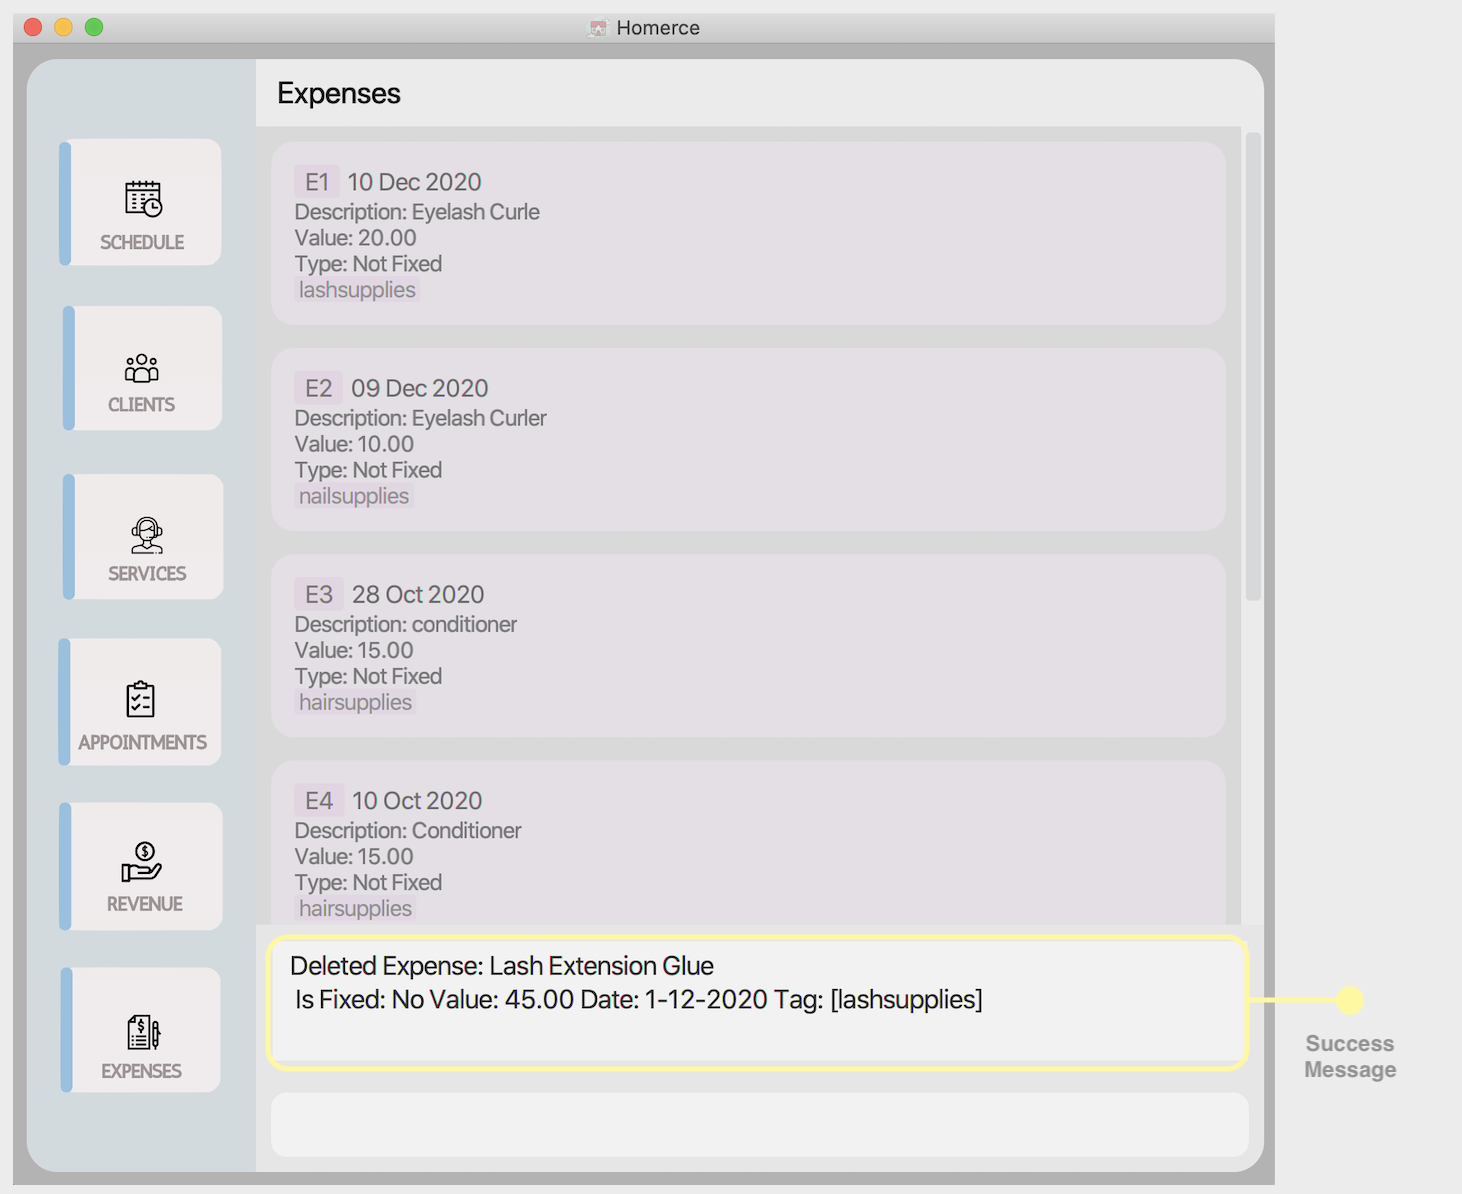
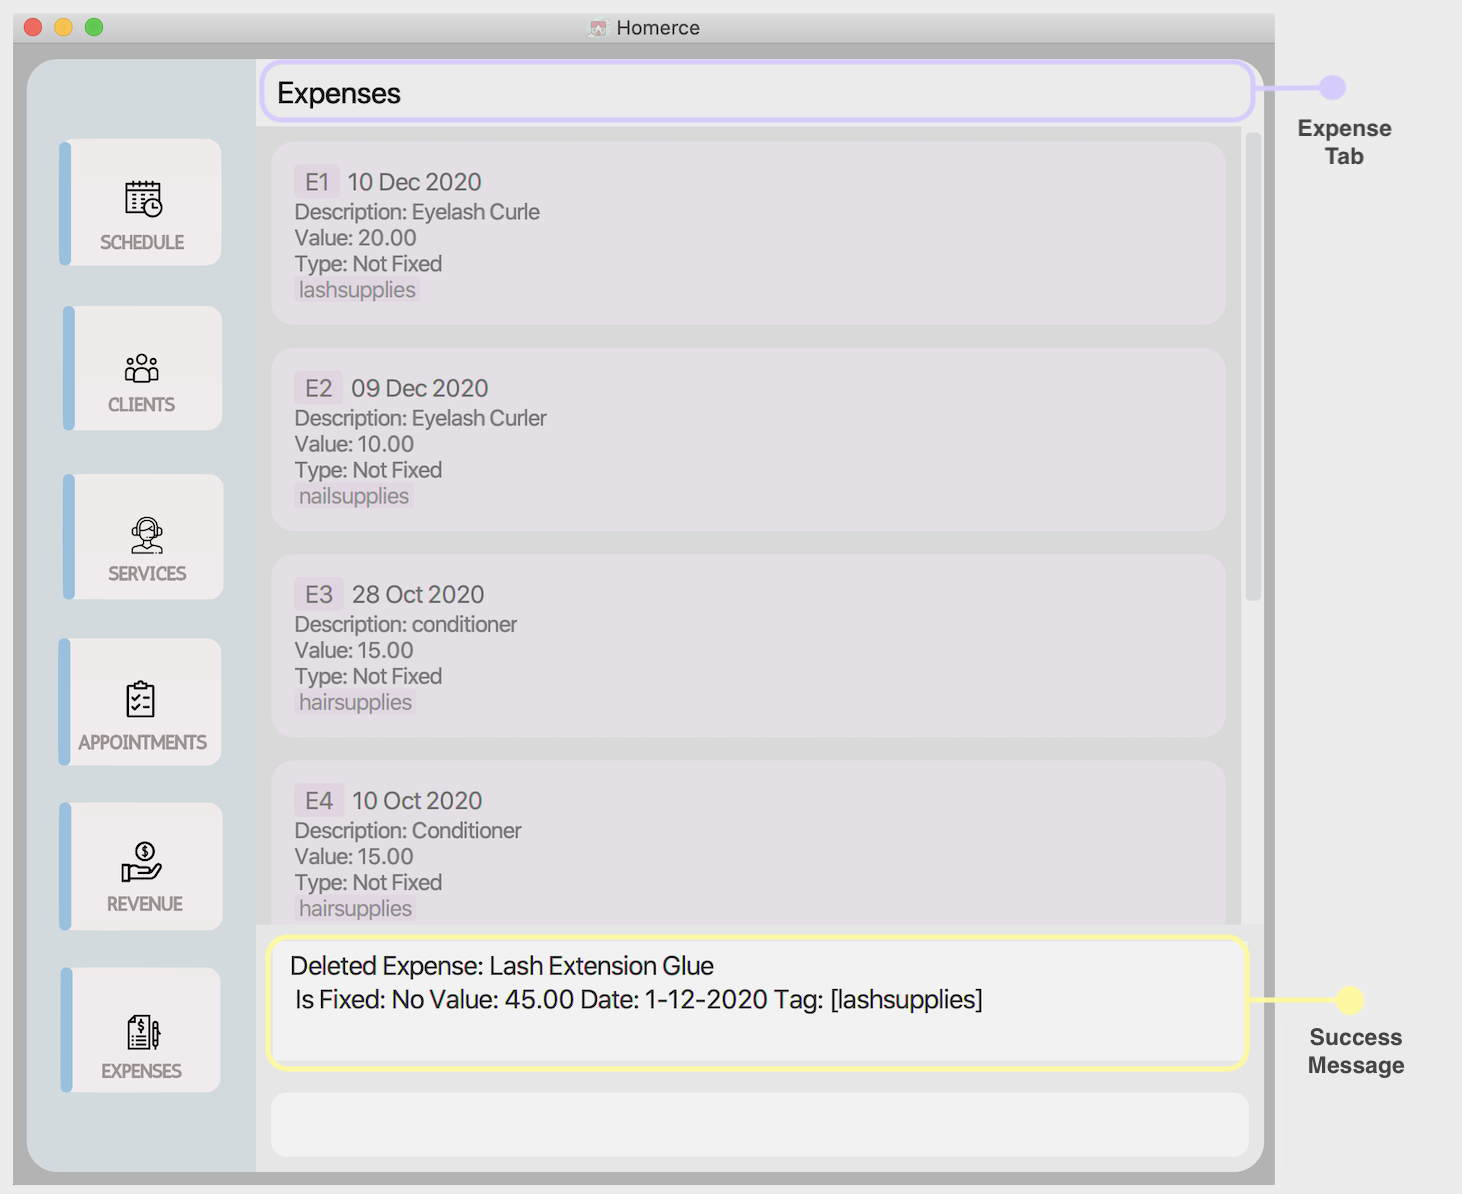
Include Annotation in Screenshot

diff --git a/docs/UserGuide.md b/docs/UserGuide.md
@@ -726,7 +726,7 @@ Steps :
 Outcome : 
 1. The *Result Display* will show a success message.
 1. Homerce will clear all the revenue data.
-1. You will no revenues listed in the tracker.
+1. You will have no revenues listed in the tracker.
 
 ![addexp](images/revenue/ClearRevenue.png) <br>
 *Figure x - GUI outcome for `clearrev`*
@@ -777,10 +777,11 @@ You can follow the steps below to add the expense to Homerce.
 
 Steps :
 1. Type `addexp d/conditioner f/n v/15.00 dt/28-10-2020 t/hairsupplies` in the _Command Box_.
-2. Press `Enter` to execute.
+1. Press `Enter` to execute.
 
 Outcome :
 1. The *Result Display* will show a success message.
+1. Homerce will switch to the *Expense Tab*.
 
 ![addexp](images/addexp.png) <br>
 *Figure x - GUI outcome for `addexp`*
@@ -813,6 +814,8 @@ Steps :
 
 Outcome :
 1. The *Result Display* will show a success message.
+1. Homerce will switch to the *Expense Tab*.
+1. You will see your edited expense displayed alongside other expenses in your tracker.
 
 ![editexp](images/editexp.png) <br>
 *Figure x - GUI outcome for `editexp`*
@@ -839,10 +842,11 @@ You can follow the steps below to delete the expense.
 
 Steps :
 1. Type `deleteexp 3` in the _Command Box_.
-2. Press `Enter` to execute.
+1. Press `Enter` to execute.
 
 Outcome :
 1. The *Result Display* will show a success message.
+1. Homerce will switch to the *Expense Tab*.
 
 ![deleteexp](images/deleteexp.png) <br>
 *Figure x - GUI outcome for `deleteexp`*
@@ -874,7 +878,8 @@ Steps :
 
 Outcome :
 1. The *Result Display* will show a success message.
-2. Homerce will list out all the expenses for 10-10-2020.
+1. Homerce will switch to the *Expense Tab*.
+1. Homerce will list out all the expenses for 10-10-2020.
 
 ![findexp](images/findexp.png) <br>
 *Figure x - GUI outcome for `findexp`*
@@ -905,7 +910,8 @@ Steps :
 
 Outcome :
 1. The *Result Display* will show a success message.
-2. Homerce will list out all the expenses sorted from highest to lowest cost.
+1. Homerce will switch to the *Expense Tab*.
+1. Homerce will list out all the expenses sorted from highest to lowest cost.
 
 ![sortexp](images/sortexp.png) <br>
 *Figure x - GUI outcome for `sortexp`*
@@ -928,7 +934,8 @@ Steps :
 
 Outcome :
 1. The *Result Display* will show a success message.
-2. Homerce will list out all your expenses.
+1. Homerce will switch to the *Expense Tab*.
+1. Homerce will list out all your expenses.
 
 ![listexp](images/listexp.png) <br>
 *Figure x - GUI outcome for `listexp`*
@@ -947,10 +954,11 @@ You can follow the steps below to clear all your expenses.
 
 Steps :
 1. Type `clearexp` in the _Command Box_.
-2. Press `Enter` to execute.
+1. Press `Enter` to execute.
 
 Outcome :
 1. The *Result Display* will show a success message.
+1. Homerce will switch to the *Expense Tab*.
 
 ![clearexp](images/clearexp.png) <br>
 *Figure x - GUI outcome for `clearexp`*
